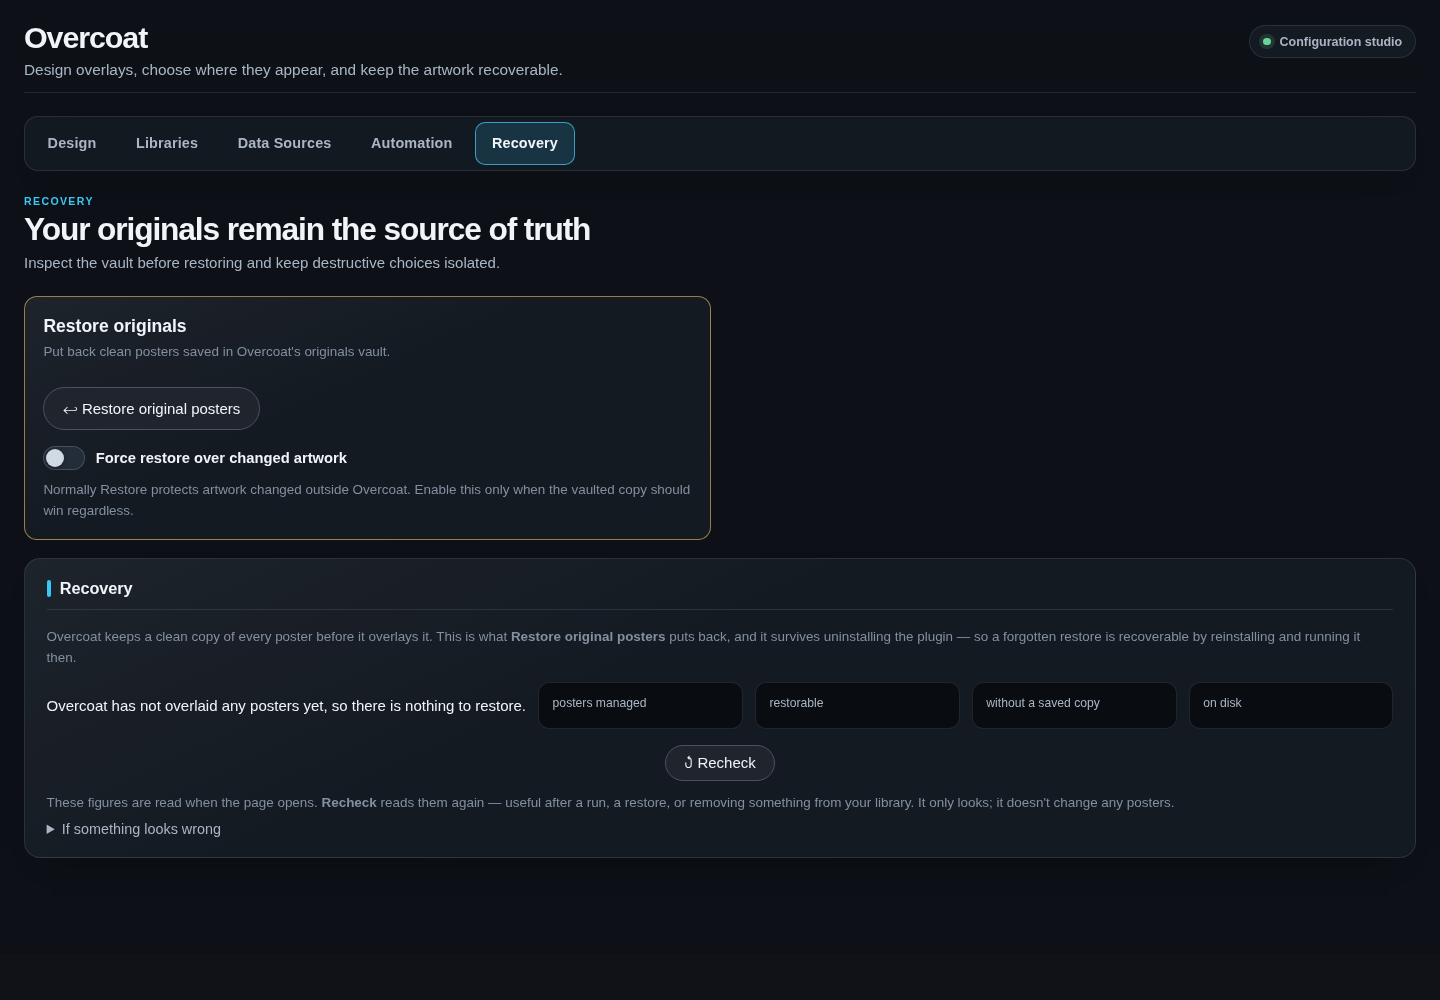
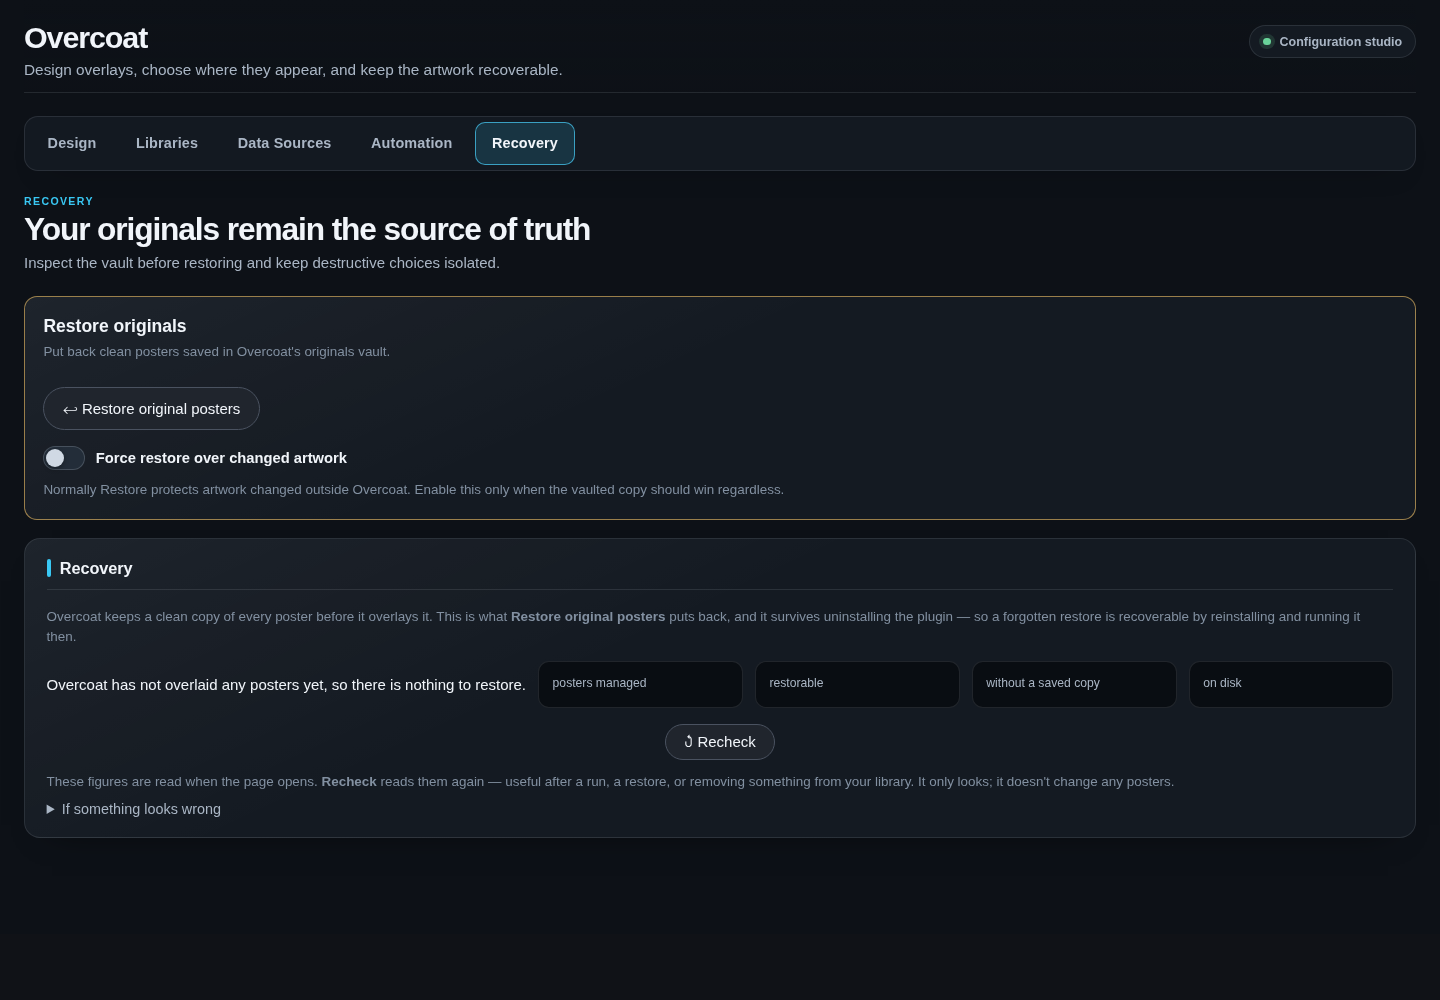
Refine targeting and action layouts

diff --git a/Jellyfin.Plugin.Overcoat/Configuration/configPage.html b/Jellyfin.Plugin.Overcoat/Configuration/configPage.html
@@ -486,46 +486,36 @@
 
                 <!-- ===================== LIBRARIES ===================== -->
                 <div class="ovcPanel" data-panel="libraries">
-                    <div class="ovcLibraryIntro ovcCaution ovcWide" role="note">
-                        <span class="ovcIcon" aria-hidden="true">tips_and_updates</span>
-                        <div><strong>Choose where Overcoat works</strong><span>Enable a library, then choose its banners, wide cards, and badges. Advanced targeting below can limit or exclude individual titles.</span></div>
-                    </div>
                     <div class="ovcCard ovcWide">
                         <h3>Next Up &amp; Continue Watching artwork</h3>
                         <p class="fieldDescription">
-                            Jellyfin stores this choice separately for each user. Series artwork lets every
-                            current user see Overcoat's wide-card overlays. Episode stills show each episode's
-                            own image instead, without an Overcoat overlay. These buttons change only that
-                            Jellyfin display preference—they do not edit or overlay any episode artwork.
+                            Choose whether current users see Overcoat's series wide cards or normal episode
+                            stills in Next Up and Continue Watching. This changes only Jellyfin's display
+                            preference; episode artwork is never edited.
                         </p>
                         <div class="ovcRowButtons">
-                            <button is="emby-button" type="button" id="OvercoatUseWideCardsAll" class="raised">
-                                <span>Use Overcoat wide cards for all current users</span>
+                            <button is="emby-button" type="button" id="OvercoatUseWideCardsAll" class="raised ovcWarningAction">
+                                <span>Use Overcoat wide cards</span>
                             </button>
-                            <button is="emby-button" type="button" id="OvercoatUseEpisodeStillsAll" class="raised">
-                                <span>Use episode stills for all current users</span>
+                            <button is="emby-button" type="button" id="OvercoatUseEpisodeStillsAll" class="raised ovcWarningAction">
+                                <span>Use episode stills</span>
                             </button>
                         </div>
                         <p class="ovcMuted" id="OvercoatUserArtworkStatus" role="status">Checking current users…</p>
                         <p class="ovcMuted">
-                            This applies to users that exist now. Run it again after creating a new Jellyfin
-                            user. It affects the Jellyfin web client's Next Up and Continue Watching setting;
-                            other clients may choose artwork differently.
+                            Applies to users that exist now. Run it again after adding a user. Other clients
+                            may choose artwork differently.
                         </p>
                     </div>
                     <div class="ovcCard ovcWide">
                         <h3>Libraries</h3>
                         <p class="fieldDescription">
-                            Your TV &amp; movie libraries, detected automatically. Tick the ones Overcoat should
-                            process and choose what each library gets. Settings are per library, never per title.
-                            (Status banners apply to TV only.)
+                            Enable each library Overcoat should process, then choose its overlays and badges.
+                            Status banners are available for TV libraries only.
                         </p>
                         <div id="OvercoatLibraries" class="ovcGrid"><p class="ovcMuted">Loading libraries…</p></div>
                     </div>
-                    <details class="ovcCard ovcWide ovcAdvanced">
-                        <summary>Advanced targeting</summary>
-                        <div class="ovcDetailsBody ovcPurposeGrid" id="OvercoatTargetingBody"></div>
-                    </details>
+                    <div id="OvercoatTargetingBody" class="ovcPurposeGrid ovcWide"></div>
                 </div>
 
                 <!-- ===================== MAINTENANCE ===================== -->
@@ -599,7 +589,7 @@
                         <h3>Run &amp; restore</h3>
                         <div class="fieldDescription">These actions save the settings on every tab before starting their scheduled task.</div>
                     </div>
-                    <div class="ovcCard ovcWide ovcCaution" id="OvercoatRunRestoreCard">
+                    <div class="ovcWide" id="OvercoatRunRestoreCard">
                         <div class="ovcActionGrid">
                             <div class="ovcActionTile" id="OvercoatApplyTile">
                                 <h3>Apply overlays</h3>
@@ -660,19 +650,19 @@
                         <h3>Targeting &amp; matching</h3>
                         <div class="fieldDescription">Optional advanced filters for testing, exclusions, and correcting TMDB matches.</div>
                     </div>
-                    <div class="ovcCard" id="OvercoatLimitCard">
-                        <h3>Limit to specific shows/movies</h3>
+                    <div class="ovcActionTile" id="OvercoatLimitCard">
+                        <h3>Test specific titles</h3>
                         <textarea is="emby-textarea" id="LimitToTitles" rows="4"></textarea>
                         <div class="fieldDescription">
-                            One title per line. When non-empty, ONLY these titles are processed (great for testing).
-                            Leave empty to process everything in the enabled libraries.
+                            One exact Jellyfin title per line. When this has entries, Run Now processes only
+                            those titles. Clear it to run every enabled library.
                         </div>
                     </div>
 
-                    <div class="ovcCard" id="OvercoatIgnoreCard">
-                        <h3>Ignore titles</h3>
+                    <div class="ovcCard ovcWide" id="OvercoatIgnoreCard">
+                        <h3>Titles to ignore</h3>
                         <textarea is="emby-textarea" id="IgnoreTitles" rows="4"></textarea>
-                        <div class="fieldDescription">One title per line. Matching items are skipped entirely.</div>
+                        <div class="fieldDescription">One exact Jellyfin title per line. These titles are always skipped, even if also listed under Test specific titles.</div>
                     </div>
 
                     <div class="ovcCard" id="OvercoatOverridesCard">
@@ -724,9 +714,10 @@
             function organizePurposeAreas() {
                 ['OvercoatBadgeSourcesCard', 'OvercoatWatchHistoryCard', 'OvercoatImdbListsCard', 'OvercoatOverridesCard']
                     .forEach(function (id) { moveInto(id, 'OvercoatDataSourcesBody'); });
-                ['OvercoatLimitCard', 'OvercoatIgnoreCard']
-                    .forEach(function (id) { moveInto(id, 'OvercoatTargetingBody'); });
+                moveInto('OvercoatIgnoreCard', 'OvercoatTargetingBody');
                 moveInto('OvercoatRestoreTile', 'OvercoatRecoveryActions');
+                var restoreTile = page.querySelector('#OvercoatRestoreTile');
+                if (restoreTile) { restoreTile.classList.add('ovcWide'); }
                 moveInto('OvercoatRecoveryCard', 'OvercoatRecoveryBody');
                 var targetingHeading = page.querySelector('#OvercoatTargetingHeading');
                 if (targetingHeading) { targetingHeading.remove(); }
@@ -743,7 +734,8 @@
                     runHeading.insertAdjacentElement('afterend', runCard);
                 }
                 var actionGrid = page.querySelector('#OvercoatRunRestoreCard .ovcActionGrid');
-                if (actionGrid) { actionGrid.classList.add('ovcSingleAction'); }
+                var limitCard = page.querySelector('#OvercoatLimitCard');
+                if (actionGrid && limitCard) { actionGrid.appendChild(limitCard); }
             }
 
             function setSaveState(state, message) {
@@ -1158,7 +1150,7 @@
                     clean:  { style:'solid', shape:'pill', font:'default', scale:1,   icons:true,  band:false, shadow:false, strength:60 },
                     glass:  { style:'glass', shape:'pill', font:'default', scale:1,   icons:true,  band:false, shadow:true,  strength:40 },
                     neon:   { style:'neon',  shape:'pill', font:'default', scale:1,   icons:true,  band:false, shadow:false, strength:60 },
-                    ribbon: { style:'solid', shape:'drop', font:'sans',    scale:0.6, icons:false, band:true,  shadow:true,  strength:35 }
+                    ribbon: { style:'solid', shape:'drop', font:'sans',    scale:1, icons:false, band:true,  shadow:true,  strength:35 }
                 };
                 var p = presets[button.getAttribute('data-preset')];
                 if (!p) { return; }

diff --git a/tools/Showcase/capture-settings.js b/tools/Showcase/capture-settings.js
@@ -135,6 +135,9 @@ const out = path.resolve(process.argv[2] || path.join(root, 'assets'));
       libraryActionRadii: ['OvercoatUseWideCardsAll','OvercoatUseEpisodeStillsAll'].map(id=>parseFloat(getComputedStyle(document.querySelector('#'+id)).borderRadius)),
       runTop: document.querySelector('#OvercoatRunRestoreCard').getBoundingClientRect().top,
       behaviourTop: document.querySelector('[data-panel="automation"] .ovcCard:not(#OvercoatRunRestoreCard)').getBoundingClientRect().top,
+      applyTop: document.querySelector('#OvercoatApplyTile').getBoundingClientRect().top,
+      limitTop: document.querySelector('#OvercoatLimitCard').getBoundingClientRect().top,
+      runBackground: getComputedStyle(document.querySelector('#OvercoatRunRestoreCard')).backgroundColor,
       statusSwitches: ['ShowNew','ShowAiring','ShowReturning','ShowEnded','ShowCanceled'].map(id=>{
         const el=document.querySelector('#'+id), box=el.getBoundingClientRect(), style=getComputedStyle(el);
         return [Math.round(box.width),Math.round(box.height),style.borderRadius].join(':');
@@ -151,6 +154,10 @@ const out = path.resolve(process.argv[2] || path.join(root, 'assets'));
     if (computed.actionRadii.some(x=>x < 20)) throw new Error(`Run/Restore/Recheck actions are not rounded (${computed.actionRadii.join(', ')}).`);
     if (computed.libraryActionRadii.some(x=>x < 20)) throw new Error(`Library artwork actions are not rounded (${computed.libraryActionRadii.join(', ')}).`);
     if (computed.runTop >= computed.behaviourTop) throw new Error('Run Now is not the first Automation section.');
+    if (page.viewportSize().width >= 1100 && Math.abs(computed.applyTop - computed.limitTop) > 2) {
+      throw new Error('Test specific titles is not beside Apply overlays.');
+    }
+    if (computed.runBackground !== 'rgba(0, 0, 0, 0)') throw new Error(`Run Now still has an outer box (${computed.runBackground}).`);
     if (new Set(computed.statusSwitches).size !== 1) throw new Error(`Status visibility switches do not share one shape (${computed.statusSwitches.join(', ')}).`);
     if (computed.previewOverflow === 'auto' || computed.previewOverflow === 'scroll' || computed.randomOrder >= computed.posterOrder) {
       throw new Error(`Preview source controls are not accessible above the artwork (${computed.randomOrder}, ${computed.posterOrder}, ${computed.previewOverflow}).`);
@@ -168,6 +175,14 @@ const out = path.resolve(process.argv[2] || path.join(root, 'assets'));
     await dryRun.click();
     if (!await page.locator('#OvercoatDryRunBanner').isVisible()) throw new Error('Dry Run notice did not appear when Dry Run was enabled.');
     await dryRun.click();
+    await page.locator('button[data-tab="recovery"]').click();
+    const recoveryWidths = await page.evaluate(() => ({
+      restore: document.querySelector('#OvercoatRestoreTile').getBoundingClientRect().width,
+      available: document.querySelector('#OvercoatRecoveryActions').getBoundingClientRect().width,
+    }));
+    if (recoveryWidths.restore < recoveryWidths.available - 2) {
+      throw new Error(`Restore Originals is not full width (${recoveryWidths.restore}/${recoveryWidths.available}).`);
+    }
     await page.locator('button[data-tab="libraries"]').click();
     const library = page.locator('.ovcLib').first();
     const libraryEnabled = library.locator('.ovcEnabled');
@@ -217,7 +232,7 @@ const out = path.resolve(process.argv[2] || path.join(root, 'assets'));
     }
     await posterPresets.filter({hasText:'Ribbon'}).click();
     if (await page.locator('#BannerShape').inputValue() !== 'drop'
-        || await page.locator('#BannerFontScale').inputValue() !== '0.6'
+        || await page.locator('#BannerFontScale').inputValue() !== '1'
         || !await page.locator('#BannerFullWidth').isChecked()
         || await page.locator('#BannerIcons').isChecked()) {
       throw new Error('Ribbon preset did not update the documented appearance fields.');

diff --git a/Jellyfin.Plugin.Overcoat/Configuration/configPage.css b/Jellyfin.Plugin.Overcoat/Configuration/configPage.css
@@ -145,14 +145,6 @@
     border-color: color-mix(in srgb, var(--ov-warning) 56%, var(--ov-border));
     background: linear-gradient(145deg, color-mix(in srgb, var(--ov-warning) 9%, var(--ov-surface)), var(--ov-surface));
 }
-#OvercoatConfigPage .ovcLibraryIntro {
-    display: flex; align-items: flex-start; gap: .8rem; padding: .95rem 1.1rem;
-    border: 1px solid color-mix(in srgb, var(--ov-warning) 64%, var(--ov-border));
-    border-radius: 14px;
-}
-#OvercoatConfigPage .ovcLibraryIntro > .ovcIcon { flex: 0 0 auto; margin-top: .08rem; color: var(--ov-warning); }
-#OvercoatConfigPage .ovcLibraryIntro strong { display: block; color: color-mix(in srgb, var(--ov-warning) 84%, var(--ov-text)); font-size: 1rem; }
-#OvercoatConfigPage .ovcLibraryIntro div > span { display: block; margin-top: .22rem; color: var(--ov-muted); font-size: .84rem; line-height: 1.45; }
 #OvercoatConfigPage details.ovcCard { padding: 0; overflow: clip; }
 #OvercoatConfigPage details.ovcCard > summary {
     display: flex; align-items: center; gap: .55rem; min-height: 3.25rem;
@@ -383,6 +375,14 @@
 #OvercoatConfigPage #OvercoatVaultRefresh { border-radius: 999px !important; padding-inline: 1.15rem !important; }
 #OvercoatConfigPage #OvercoatUseWideCardsAll,
 #OvercoatConfigPage #OvercoatUseEpisodeStillsAll { border-radius: 999px !important; padding-inline: 1.15rem !important; }
+#OvercoatConfigPage .ovcWarningAction {
+    border-color: color-mix(in srgb, var(--ov-warning) 76%, #fff) !important;
+    color: #251900 !important; background: var(--ov-warning) !important;
+    box-shadow: 0 8px 20px -14px color-mix(in srgb, var(--ov-warning) 80%, transparent) !important;
+}
+#OvercoatConfigPage .ovcWarningAction:hover { filter: brightness(1.08); }
+#OvercoatConfigPage #OvercoatRunRestoreCard { background: transparent; border: 0; box-shadow: none; }
+#OvercoatConfigPage #OvercoatLimitCard textarea { min-height: 6.4rem; }
 #OvercoatConfigPage .ovcDryRunBanner {
     display: flex; align-items: flex-start; gap: .75rem; grid-column: 1 / -1;
     margin-top: .9rem; padding: .85rem 1rem; border: 1px solid color-mix(in srgb, var(--ov-warning) 68%, var(--ov-border));

diff --git a/scripts/check_config_page.js b/scripts/check_config_page.js
@@ -79,7 +79,8 @@ const requiredPatterns = [
   ['explicit discard action exists', /id="OvercoatDiscard"/],
   ['Dry Run notice exists', /id="OvercoatDryRunBanner"[^>]*role="status"/],
   ['skip cache shows its recommended state', /id="CacheEnabled"[\s\S]*class="ovcRecommended">Recommended on/],
-  ['Libraries guidance is a compact caution banner', /class="ovcLibraryIntro ovcCaution ovcWide"[^>]*role="note"/],
+  ['library artwork choices use warning actions', /id="OvercoatUseWideCardsAll"[^>]*ovcWarningAction[\s\S]*id="OvercoatUseEpisodeStillsAll"[^>]*ovcWarningAction/],
+  ['ignored titles are an always-open section', /class="ovcCard ovcWide" id="OvercoatIgnoreCard"[\s\S]*<h3>Titles to ignore<\/h3>/],
   ['session draft persistence exists', /sessionStorage\.setItem\(draftKey/],
   ['full form serialization exists', /config\.Libraries\s*=\s*collectLibraries\(\)/],
   ['segmented controls expose radio state', /setAttribute\('aria-checked'/],
@@ -123,6 +124,7 @@ const cssPatterns = [
   ['navigation stays in a top rail', /\.ovcTabs\s*\{[\s\S]*position:\s*sticky;[\s\S]*flex-direction:\s*row/],
   ['operation buttons stay rounded', /#OvercoatRunNow,[\s\S]*#OvercoatRestore,[\s\S]*#OvercoatVaultRefresh\s*\{[^}]*border-radius:\s*999px\s*!important/],
   ['library artwork buttons stay rounded', /#OvercoatUseWideCardsAll,[\s\S]*#OvercoatUseEpisodeStillsAll\s*\{[^}]*border-radius:\s*999px\s*!important/],
+  ['library artwork buttons use warning colour', /\.ovcWarningAction\s*\{[^}]*background:\s*var\(--ov-warning\)\s*!important/],
   ['custom schedule fields respect their hidden state', /#ScheduleTimeRow\[hidden\]\s*\{[^}]*display:\s*none\s*!important/],
   ['Quick Look buttons resist Jellyfin full-width button styles', /\.ovcPreset\s*\{[^}]*width:\s*auto\s*!important[^}]*max-width:\s*8rem/],
   ['studio stacks below 1100px', /@media\s*\(max-width:\s*1099px\)/],

diff --git a/Jellyfin.Plugin.Overcoat/Services/OverlayRenderer.cs b/Jellyfin.Plugin.Overcoat/Services/OverlayRenderer.cs
@@ -205,7 +205,8 @@ public sealed class OverlayRenderer : IDisposable
 
         float fontScale = options.FontScale <= 0 ? 1f : (float)options.FontScale;
         bool landscape = posterWidth > posterHeight;
-        float dynamicFontSize = (int)((landscape ? posterWidth : posterHeight) * FontHeightFraction * SizeMultiplier * fontScale);
+        float dynamicFontSize = (int)((landscape ? posterWidth : posterHeight) * FontHeightFraction
+            * SizeMultiplier * fontScale * TypefaceScale(options.Font));
 
         var spaced = string.Join(" ", BannerDisplayText(text).ToCharArray());
         var pillHex = options.ColorOverride ?? GetBannerColor(text);
@@ -469,6 +470,17 @@ public sealed class OverlayRenderer : IDisposable
                 ? display[..^1] + "d"
                 : display;
     }
+
+    /// <summary>
+    /// The host sans/serif/mono faces have much larger visual metrics than the bundled display face
+    /// at the same Skia text size. Normalize them so Typeface changes style, not apparent size.
+    /// </summary>
+    private static float TypefaceScale(string? font)
+        => string.Equals(font, "sans", StringComparison.OrdinalIgnoreCase)
+            || string.Equals(font, "serif", StringComparison.OrdinalIgnoreCase)
+            || string.Equals(font, "mono", StringComparison.OrdinalIgnoreCase)
+                ? 0.6f
+                : 1f;
 
     /// <summary>Maps banner text to a status keyword used to pick the icon (empty = no icon).</summary>
     private static string StatusKeyword(string text)

diff --git a/tests/Jellyfin.Plugin.Overcoat.Tests/OverlayRendererTests.cs b/tests/Jellyfin.Plugin.Overcoat.Tests/OverlayRendererTests.cs
@@ -19,6 +19,19 @@ public sealed class OverlayRendererTests
         Assert.Equal(expected, method.Invoke(null, new object[] { input }));
     }
 
+    [Theory]
+    [InlineData("default", 1f)]
+    [InlineData("sans", 0.6f)]
+    [InlineData("serif", 0.6f)]
+    [InlineData("mono", 0.6f)]
+    public void TypefaceScale_NormalizesSystemFontMetrics(string font, float expected)
+    {
+        var method = typeof(OverlayRenderer).GetMethod("TypefaceScale", BindingFlags.NonPublic | BindingFlags.Static);
+
+        Assert.NotNull(method);
+        Assert.Equal(expected, method.Invoke(null, new object?[] { font }));
+    }
+
     [Fact]
     public void WideCardEncoding_DownscalesWithoutUpscaling()
     {

diff --git a/README.md b/README.md
@@ -134,7 +134,8 @@ to Overcoat's configuration view.
 
 Libraries expose their banner and badge choices only while **Process this library** is enabled.
 Normal processing and scheduling live in Automation; originals-vault health and restoration live in
-Recovery; advanced library targeting is collapsed beneath the detected libraries.
+Recovery. **Test specific titles** sits beside Run Now in Automation, while the always-visible
+**Titles to ignore** section sits beneath the detected libraries.
 
 The Libraries tab also reports how many current users see series wide cards versus episode stills.
 **Use Overcoat wide cards for all current users** changes Jellyfin's Next Up/Continue Watching
@@ -144,10 +145,10 @@ users** reverses that preference. Neither action changes, overlays, or deletes e
 ### Test Overcoat on a single title
 
 You do not need to process an entire library to see whether Overcoat suits it. Open
-**Settings → Libraries → Advanced targeting**, then:
+**Settings → Automation → Run now**, then:
 
 1. Enable **Process this library** for the library that contains your test title.
-2. In **Limit to specific shows or movies**, enter the title exactly as it appears in Jellyfin.
+2. In **Test specific titles**, enter the title exactly as it appears in Jellyfin.
    Enter one title per line.
 3. Leave **Dry run** enabled, select **Apply Changes**, then open **Automation → Run now** to review
    what Overcoat would process without changing artwork.
@@ -159,7 +160,7 @@ Title matching is case-insensitive but otherwise uses the complete Jellyfin titl
 an allow-list: while it contains any titles, everything not listed is skipped. It does not enable a
 library or an overlay type by itself; the normal library options still apply.
 
-**Exclude specific shows or movies** is the companion deny-list. Put one complete title per line to
+**Libraries → Titles to ignore** is the companion deny-list. Put one complete title per line to
 leave those titles untouched while the rest of each enabled library is processed. Exclusions always
 win, so a title present in both lists is still skipped. This is useful for artwork you manage
 manually, titles that need a different treatment, or anything you simply never want Overcoat to

diff --git a/CHANGELOG.md b/CHANGELOG.md
@@ -6,7 +6,17 @@ All notable changes to Overcoat are documented here. Format follows
 
 ## [Unreleased]
 
-_Nothing yet._
+### Changed
+- **Libraries is flatter and more direct.** The introductory warning banner is removed, explanatory
+  copy is shorter, and the two all-user artwork choices are yellow warning actions. The former
+  Advanced targeting disclosure is now an always-open **Titles to ignore** section at the bottom.
+- **Run Now puts test scope beside the action.** Test specific titles now sits directly beside Apply
+  overlays, while the redundant yellow outer container is gone.
+- **Restore Originals uses the full Recovery width.** The complete restore action card now spans the
+  page instead of occupying only half of the action grid.
+- **Alternate typefaces keep a consistent visual size.** Sans, Serif, and Mono are calibrated to
+  `0.60×` internally so switching away from Display changes the style without making banner text
+  enormous. The visible Text size control remains the user's independent multiplier.
 
 ## [0.9.0-beta.3] — 2026-07-24
 
